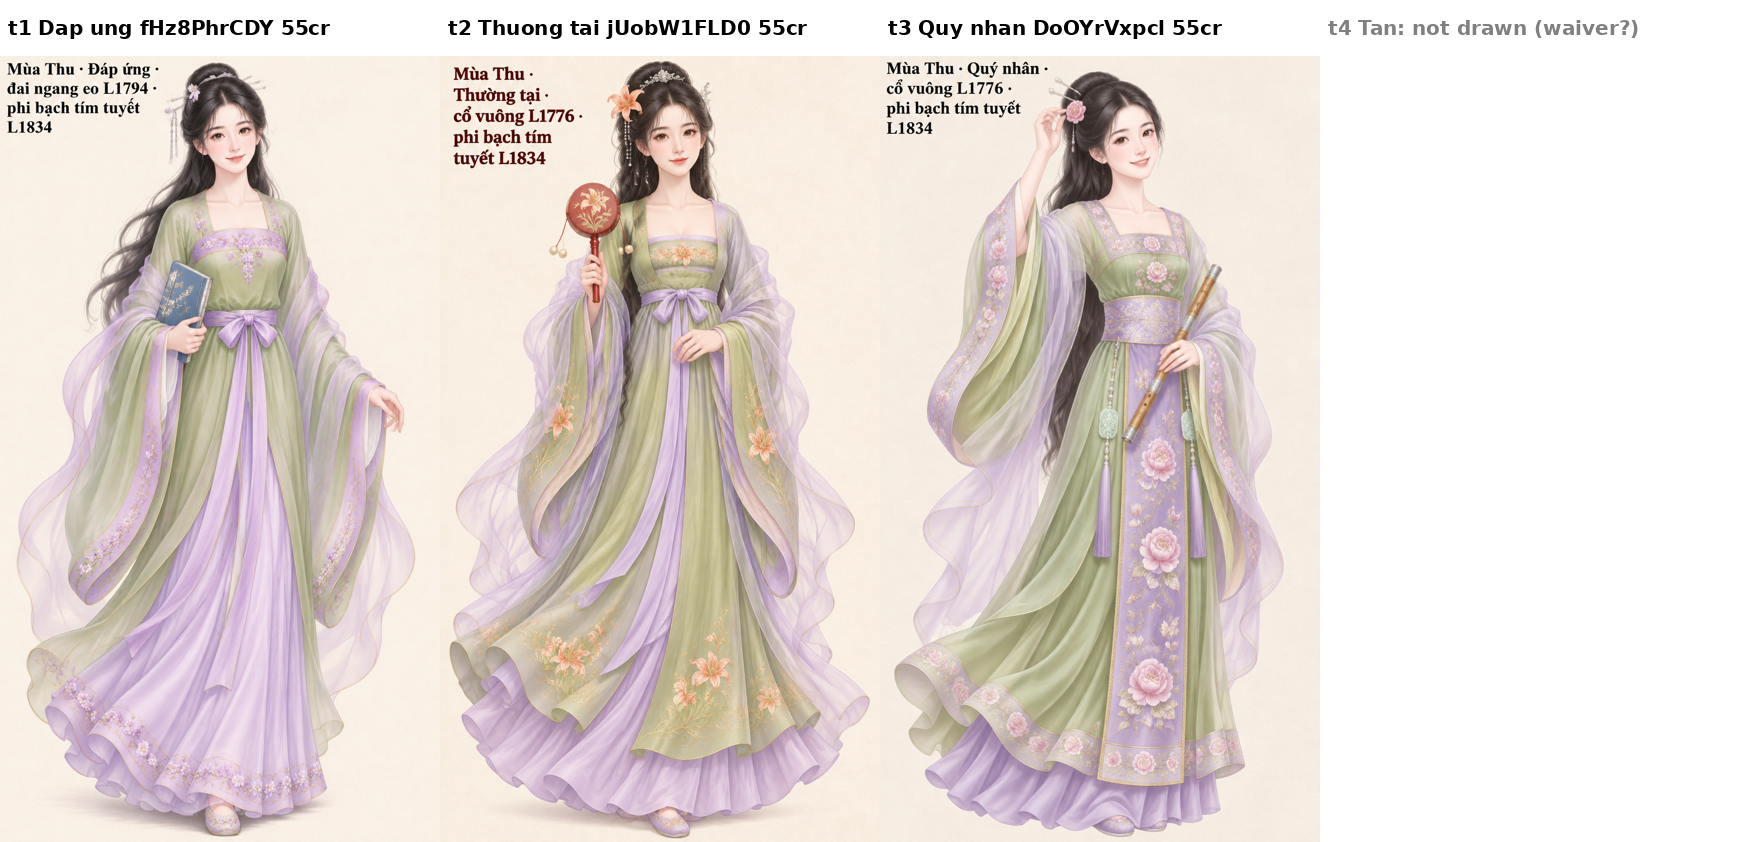
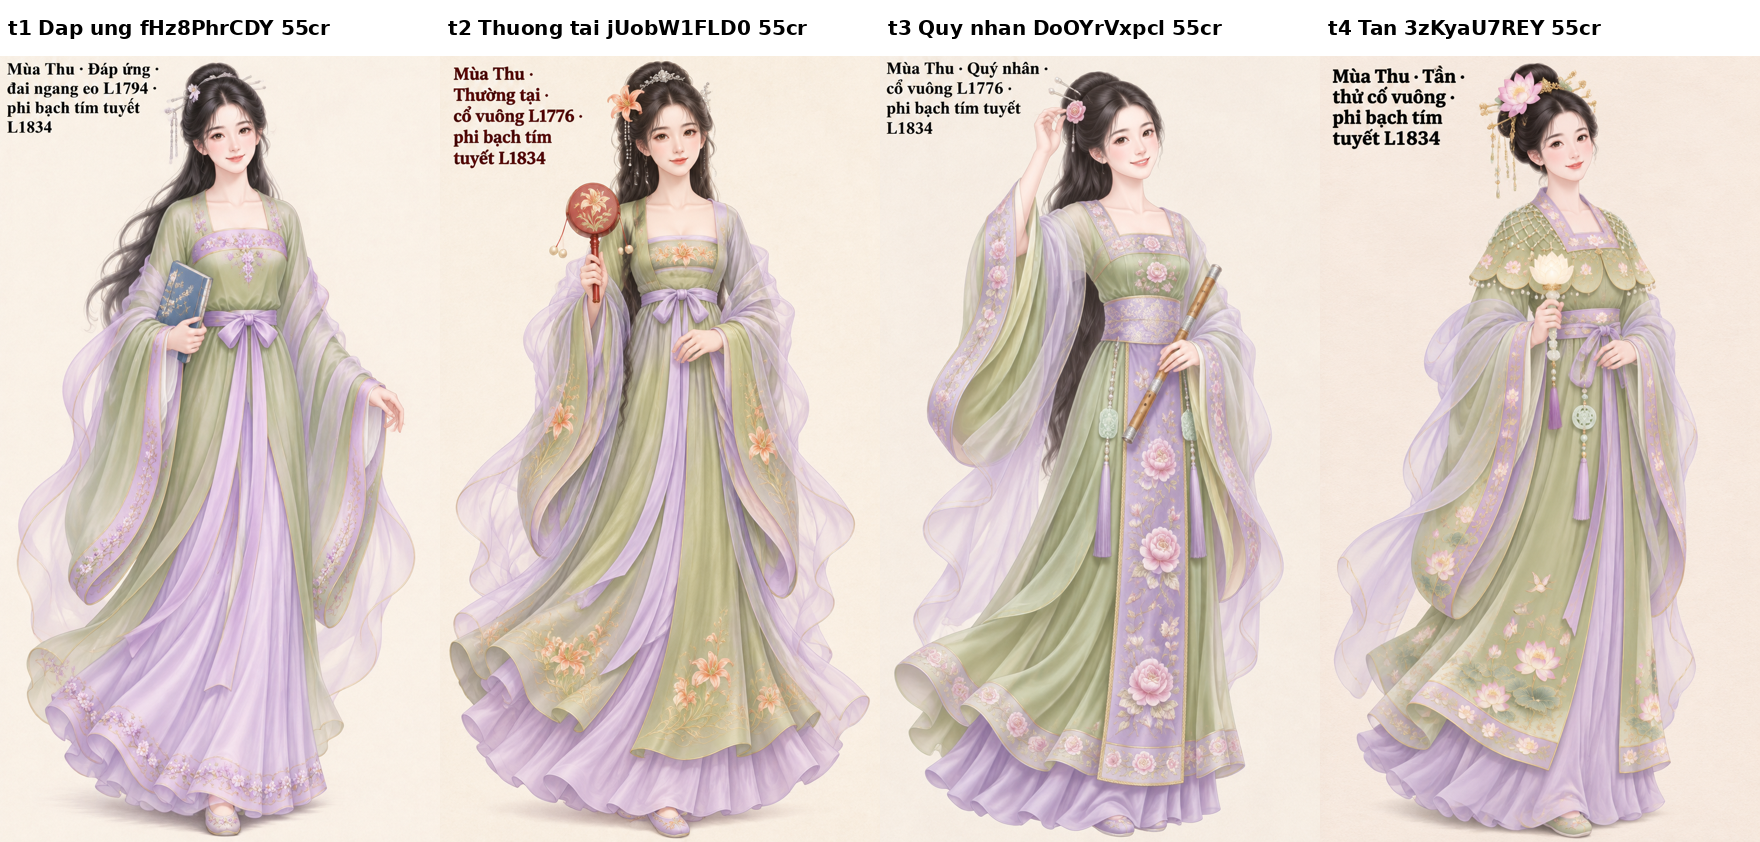
VE3: A49 t4 sample 3zKyaU7REY + 4-pic sheet

Changed region(s): [[0.75, 0.0, 1.0, 1.0]]

diff --git a/dev/handover/reports/VE3.md b/dev/handover/reports/VE3.md
@@ -20,3 +20,6 @@ t1 Đáp ứng fHz8PhrCDY · t2 Thường tại jUobW1FLD0 · t3 Quý nhân DoOY
 t4 sqtest_L1834 NOT drawn: gate FAIL B26/M06/S13 (same as the earlier #22-waived t4) — asked #24 for "t4 waived".
 LOOK: snow-violet gauze shawl on all three reads sheer, robe/arms visible through it ✓, soft violet hue; thin gold edge barely visible at this size. t1: low square neck, waist ribbon, book, white lilac ✓. t2: square neck ✓, peach-coral tiger lily in hair ✓, brick-red pellet drum with handle (contrasts) ✓, tiger lilies scattered on skirt. t3: 3/4 right ✓, lilac apron panel + jade pendants ✓, hand adjusting hairpin + bamboo flute ✓, one rose-pink rose ✓. Notes: shawl large/voluminous on all; the olive reads sage-green.
 Session total: 705 + 165 = 870 cr.
+t4 Tần sqtest L1834 — id 3zKyaU7REY · 55 cr (waived B26/M06/S13 by #24) · same settings/ref · sheet updated (4 filled).
+LOOK: low square neck with lilac lotus band fully visible ✓; round petal-lobed capelet, open at front ✓; pearl net on the shoulders/upper capelet with pearl fringe on the lobes (net not clearly the full capelet length ✗); hair up + ONE large lotus ✓; white-jade lotus lamp upright ✓; snow-violet sheer shawl ✓. ✗ body is near-frontal, not a clear 45° left three-quarter.
+A49 total 220 cr; session total 705 + 220 = 925 cr.
